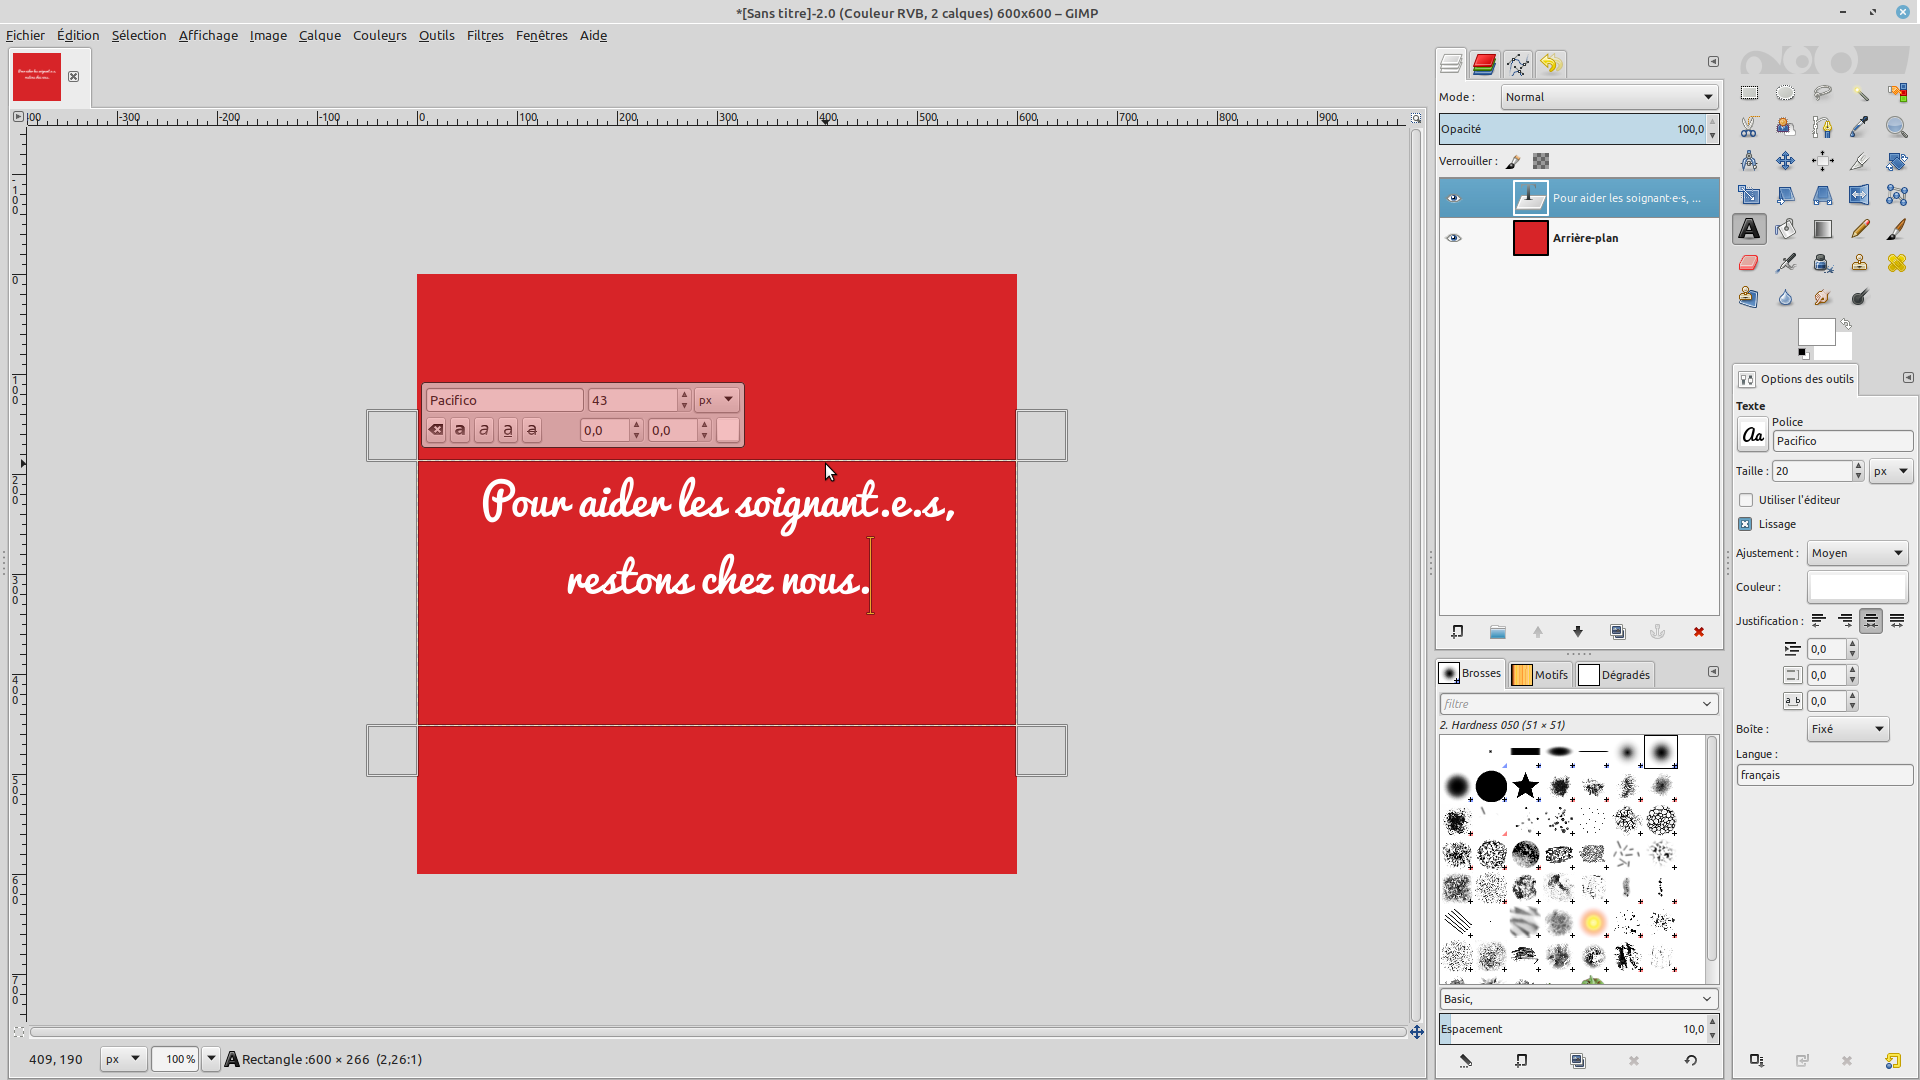
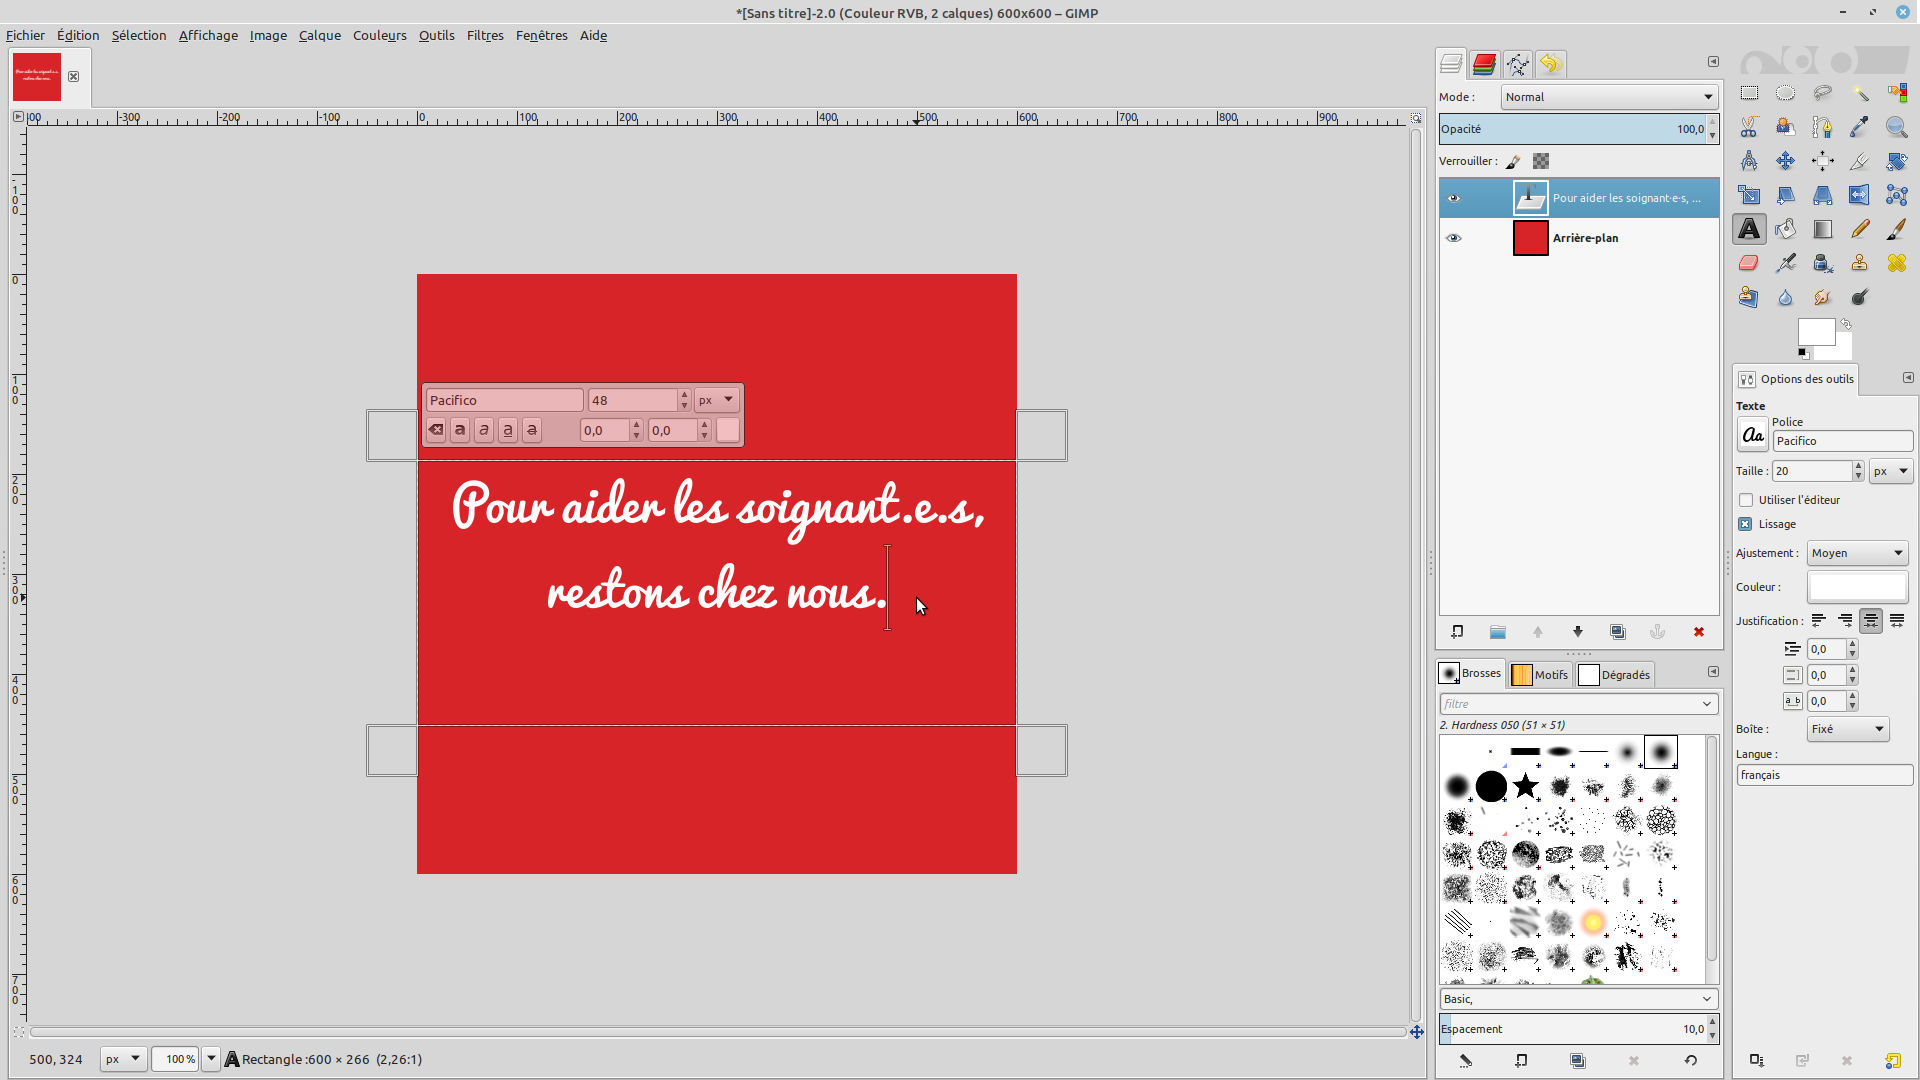
Premier jet du premier tuto.

Changed region(s): [[0.2188, 0.4278, 0.5312, 0.5806]]

diff --git a/tutoriels/gimp_01_Visuel_simple.md b/tutoriels/gimp_01_Visuel_simple.md
@@ -1,13 +1,19 @@
 # 01 - Gimp pour réaliser des visuels très simples
 
 Ce tutoriel est prévu pour apprendre à utiliser les fonctions élémentaires de Gimp. Nous y réaliserons un visuel très simple : un texte sur fond uni, signé avec le logo du parti.
-Mais avant tout, il faut télécharger et installer Gimp en utilisant l'exécutable fourni [à cette adresse](https://www.gimp.org/downloads/), puis le démarrer.
+
+Mais avant de commencer, pourquoi ce logiciel ? Il y a deux raisons majeures :
+* Il est disponible gratuitement et légalement sur les trois systèmes d'exploitation principaux (Windows, MacOs, GNU/Linux), et peut donc facilement servir de standard entre des gens qui n'utilisent pas tou·te·s les mêmes solutions techniques (comme c'est notre cas au parti).
+* Même si son utilisation est plus austère, il permet d'obtenir des résultats comparables à ceux de la suite Adobe.
+* C'est un logiciel libre, qui apporte donc des garanties fortes en termes de protection des données, de sécurité, etc.
+
+Avant tout, il faut télécharger et installer Gimp en utilisant l'exécutable fourni [à cette adresse](https://www.gimp.org/downloads/), puis le démarrer.
 
 ## Créer une nouvelle image et découvrir l'interface
 
 ### Créer une nouvelle image
 
-Commençons par créer une nouvelle image. Pour ce faire, on clique sur "Fichier" en haut à gauche, puis sur "Nouvelle image".
+Commençons par créer une nouvelle image. Pour ce faire, on clique en haut à sur Fichier ⟶ Nouvelle image.
 La fenêtre suivante s'ouvre alors : elle permet de choisir les dimensions de la nouvelle image.
 
 ![Nouvelle image](gimp_01_aux/01_nouvelle_image.png)
@@ -23,7 +29,7 @@ On se retrouve donc normalement avec l'écran suivant.
 
 Il se décompose comme suit :
 * Le panneau principal contient l'image sur laquelle on est en train de travailler : ici, ce n'est encore qu'un carré blanc.
-* Le premier panneau de droite contient les calques qui constituent notre image. Nous y reviendrons.
+* Le premier panneau de droite présente les calques qui constituent notre image. Nous y reviendrons.
 * Le dernier panneau de droite présente les différents outils disponibles pour modifier l'image : brosse, pot de peinture, pipette, etc.
 * Au-dessus du panneau principal, la barre de menu permet d'accéder à des options plus précises.
 
@@ -58,7 +64,7 @@ Maintenant, l'image devrait ressembler à ceci :
 
 ![Pot de peinture](gimp_01_aux/05_fond_rouge.png)
 
-## Ajouter le texte
+## Écrire le texte
 
 On va ajouter un slogan plein de bonnes intentions : "Pour aider les soignant·e·s, restons chez nous." On va l'écrire en blanc sur le fond rouge : il faut donc commencer par sélectionner la couleur blanche dans le panneau des outils.
 
@@ -86,4 +92,45 @@ Essayons d'obtenir un résultat comme celui-là :
 
 ![Texte](gimp_01_aux/09_texte_resultat.png)
 
+## Signer avec le logo
 
+### Sa familiariser avec les calques
+
+Jetons un œil au premier panneau à droite de l'image, qui liste les différents calques de l'image :
+
+![Panneau des calques](gimp_01_aux/10_panneau_calques.png)
+
+Il y a pour l'instant 2 calques : l'arrière-plan et le texte. Cela signifie que notre image est faite de 2 couches, l'une sur l'autre.
+
+### Importer un nouveau calque
+
+On va importer notre logo sous la forme d'un nouveau calque, intercalé entre l'arrière-plan et le texte.
+
+1- On commence par récupérer la version du logo qu'on veut utiliser, par exemple [celle-ci](https://github.com/PCF-Nanterre/graphisme/blob/master/ressources/logos/pcf_ancien_blanc.png).
+
+2- On insère le calque du logo dans notre image en cliquant sur Fichier ⟶ Ouvrir en tant que calques. Un nouveau calque est apparu dans notre panneau des calques ! On fait glisser-déposer pour qu'il soit au dessus du texte :
+
+![Nouveau calque](gimp_01_aux/11_nouveau_calque.png)
+
+### Manipuler notre nouveau calque
+
+Il est néanmoins beaucoup trop gros : on va le redimensionner. Clic droit sur le nouveau calque, puis Échelle et taille du calque. On va se contenter de 100 pixels en largeur et 100 pixels en hauteur :
+
+![Taille du calque](gimp_01_aux/12_taille_calque.png)
+
+Maintenant, notre logo a la bonne taille, mais il n'est pas à la bonne place sur l'image. On va se servir de l'outil de déplacement :
+
+![Outil de déplacement](gimp_01_aux/13_deplacement.png)
+
+
+Avec l'outil de déplacement, on clique sur le logo, et on fait glisser-déposer pour le déposer où on veut, en l'occurence, un peu en dessous du texte.
+
+### Résultat
+
+Le visuel est fini. Il devrait maintenant ressembler à ceci :
+
+![Fini](gimp_01_aux/14_fini.png)
+
+Il n'y a plus qu'à :
+* L'enregistrer en faisant Fichier ⟶ Enregistrer sous. C'est ce fichier qu'il faudra ouvrir si on veut retravailler notre modèle, changer, le texte, manipuler les calques, etc.
+* L'exporter dans un format plus léger (png ou jpg), en faisant Fichier ⟶ Exporter. C'est ce fichier qu'on diffusera sur les réseaux sociaux.
